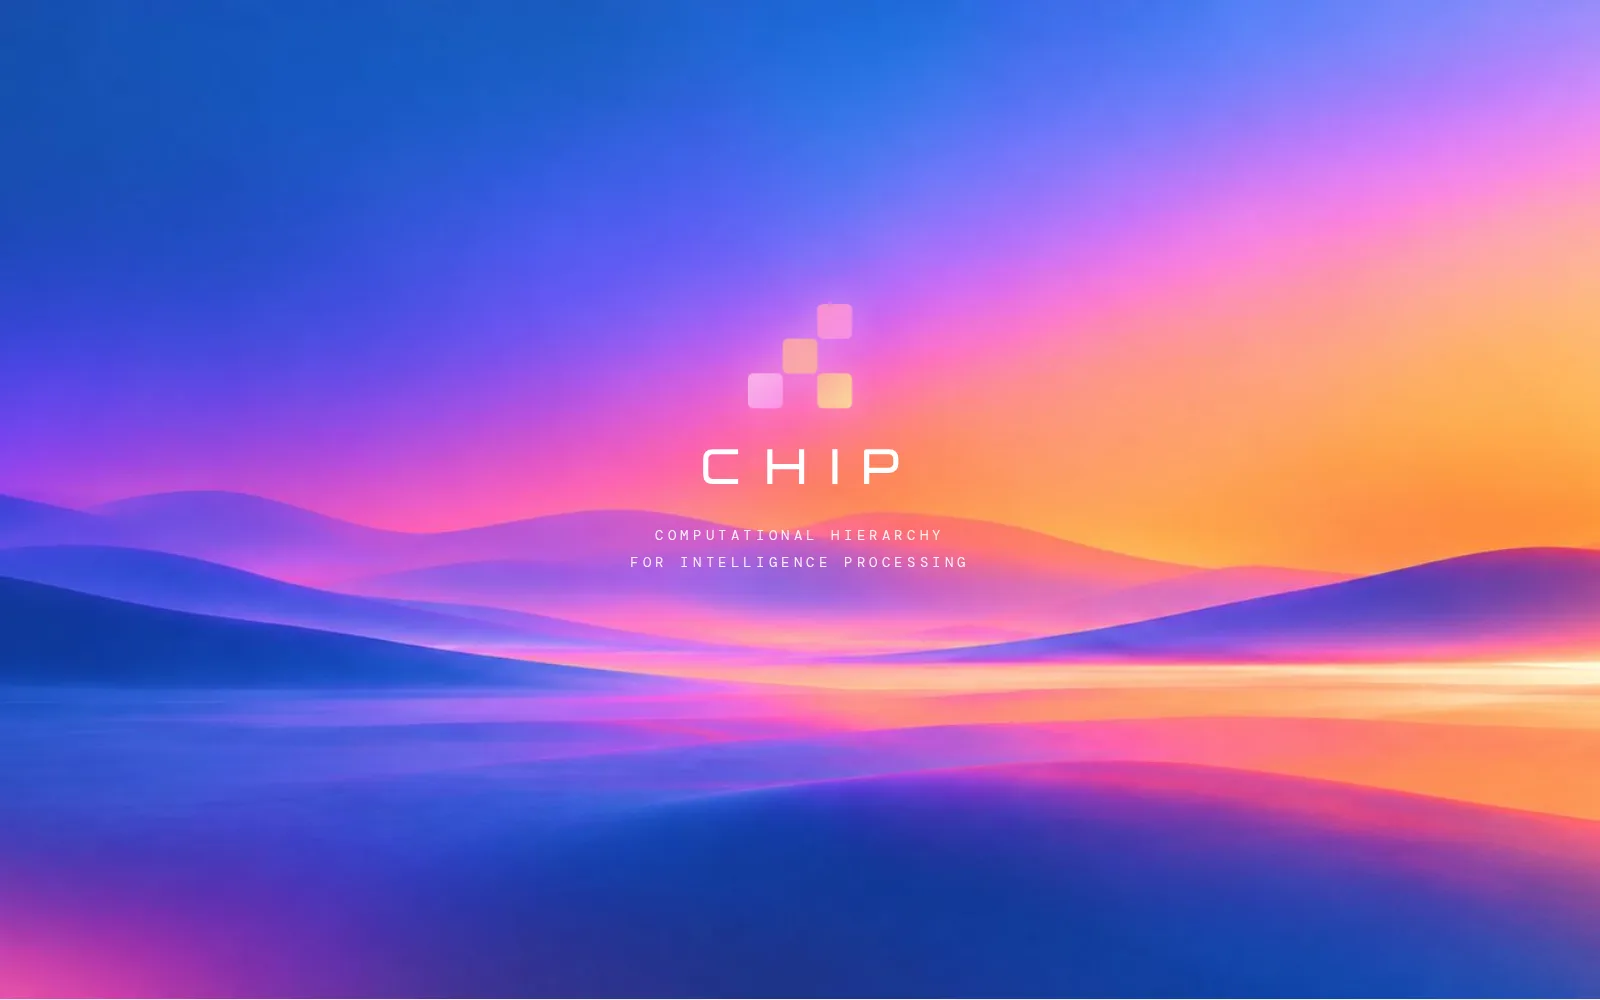
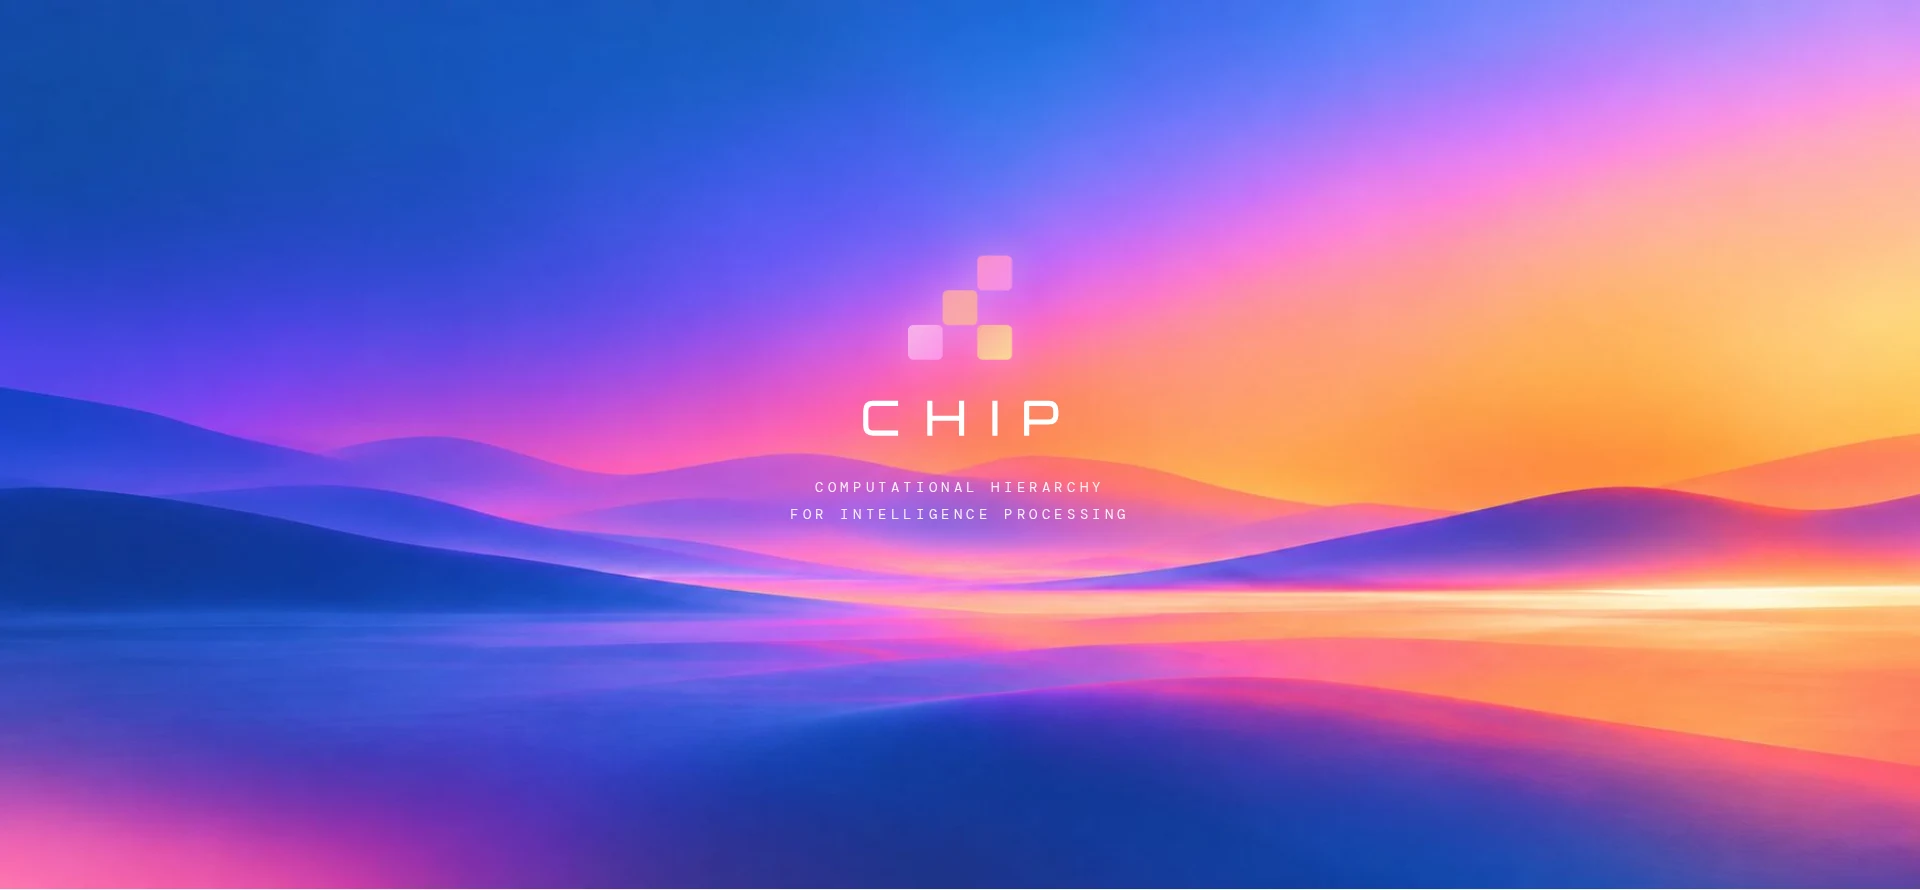
Site: 'made in iaos21' small heading, no black edges on MOJIMA/REMIX cards, full-width CHIP shot, Scout gone, KISSA/Neko/Orbit off the carousel

diff --git a/src/builds.ts b/src/builds.ts
@@ -314,43 +314,21 @@ export const BUILDS: Build[] = [
       ['Since', '2026'],
     ],
   },
-  {
-    slug: 'scout',
-    name: 'REMIX Scout',
-    line: 'What is now possible, every week',
-    kind: 'system',
-    status: 'Running inside REMIX',
-    year: 2026,
-    hero: img('scout.webp'),
-    views: [img('scout-v1.webp'), img('scout-v2.webp')],
-    url: '',
-    about: [
-      'Scout reads the frontier so you do not have to: new models, new tools, new reach, and what each of them means for the thing you are building.',
-    ],
-    facts: [
-      ['Kind', 'Research subsystem'],
-      ['Where', 'Inside REMIX'],
-      ['Since', '2026'],
-    ],
-  },
 ]
 
 export const bySlug = (slug: string) => BUILDS.find((b) => b.slug === slug)
 // The carousel, left to right. MOJIMA first; the rest as Jack sets it.
+// KISSA, Neko no Michi and Orbit stay in BUILDS but are off the carousel; their links get a new place.
 export const ORDER = [
   'mojima',
   'remix',
   'deploy',
   'aeon',
-  'kissa',
   'kosmo',
   'lisa',
-  'neko-no-michi',
   'trendinq',
   'lingua',
   'wordmark',
-  'orbit',
   'chip',
-  'scout',
 ]
 export const CAROUSEL: Build[] = ORDER.map((s) => bySlug(s)).filter((b): b is Build => !!b)

diff --git a/src/pages/Home.tsx b/src/pages/Home.tsx
@@ -1,5 +1,5 @@
 import { useEffect, useRef, useState } from 'react'
-import { BUILDS, CAROUSEL, KINDS, bySlug, type Build } from '../builds'
+import { CAROUSEL, KINDS, bySlug, type Build } from '../builds'
 import { Film, OpenLink, converse } from '../components/Parts'
 import { about, closing, hero, heroFrom, site } from '../site'
 import { ArrowRight, Close, Expand, Pause, Play, Shrink, SkipBack, SkipForward } from '../components/icons'
@@ -102,9 +102,9 @@ export function Home() {
 
       <section className="builds" id="builds" aria-label="The builds">
         <div className="section__head">
-          <h2 className="display">Made at iAOS21</h2>
+          <h2 className="display display--sm">made in iaos21</h2>
           <div className="builds__tools">
-            <p className="label muted">{pad(BUILDS.length)} builds</p>
+            <p className="label muted">{pad(CAROUSEL.length)} builds</p>
             <button className="builds__arrow" onClick={() => slide(-1)} aria-label="Previous">
               <ArrowRight size={18} />
             </button>

diff --git a/src/styles.css b/src/styles.css
@@ -106,6 +106,10 @@ main {
   letter-spacing: -0.025em;
   text-wrap: balance;
 }
+.display--sm {
+  font-size: clamp(22px, 2.4vw, 32px);
+  letter-spacing: -0.015em;
+}
 .display--xl {
   font-size: clamp(44px, 7.4vw, 112px);
   line-height: 0.98;
